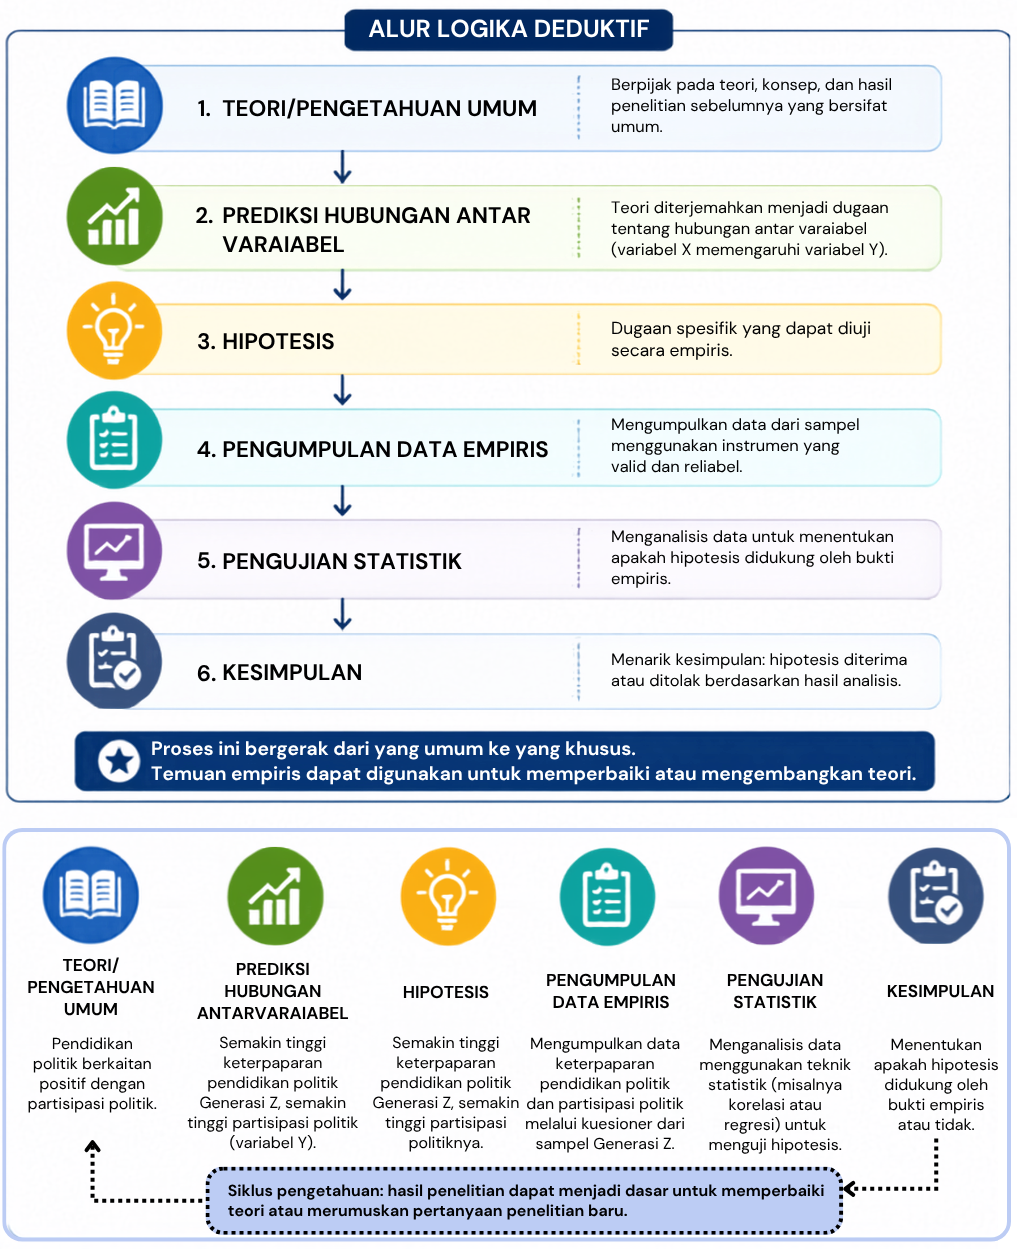
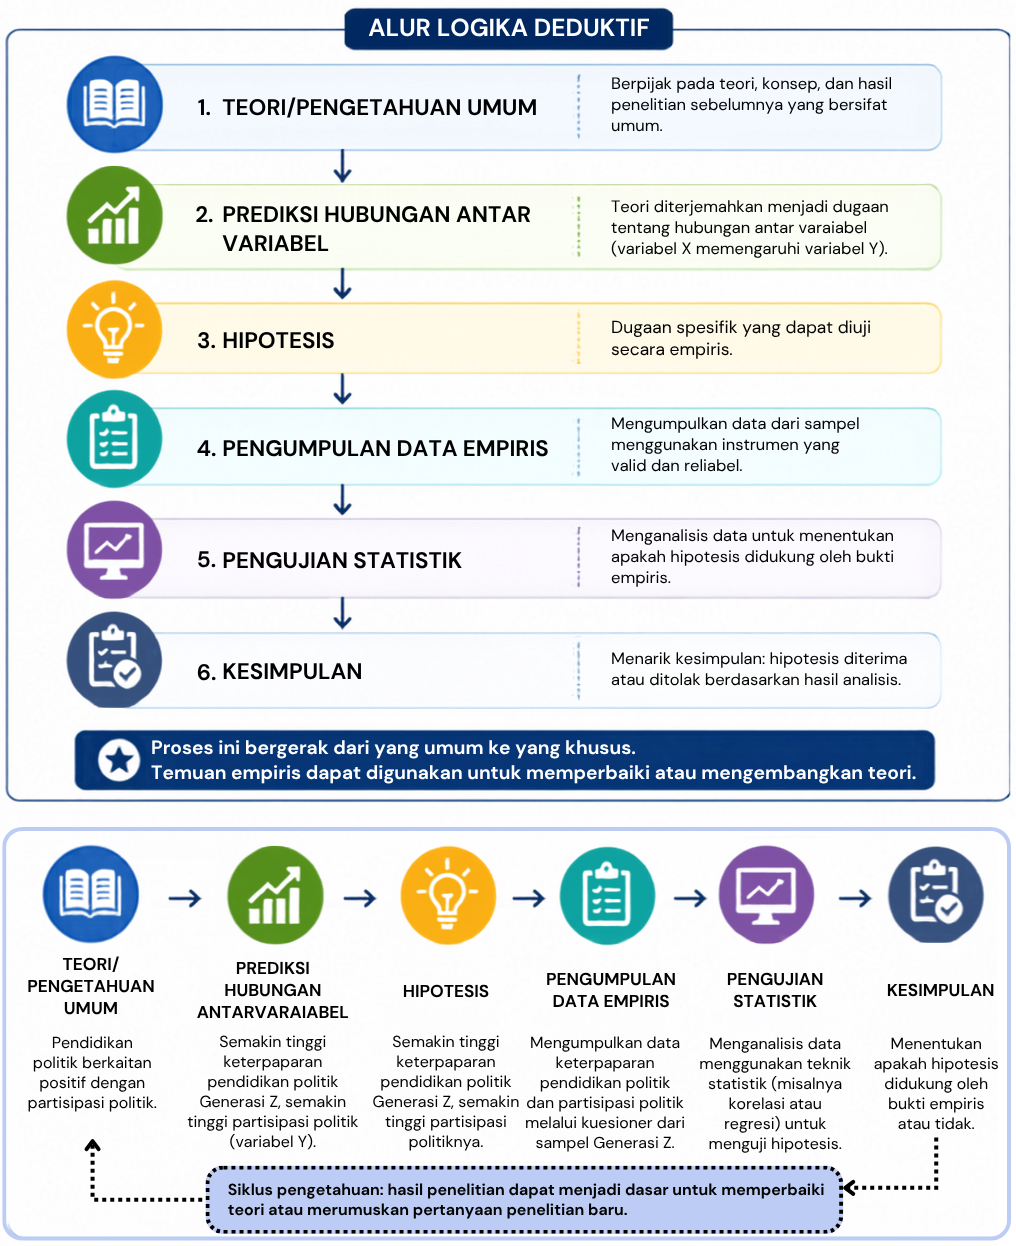
figure chap 9 revised

diff --git a/docs/3_11_prinsipkuanti.html b/docs/3_11_prinsipkuanti.html
@@ -8,7 +8,7 @@
 
 <meta name="author" content="Entin Nurhayati">
 
-<title>9&nbsp; Prinsip dan Logika Penelitian Kuantitatif – Metodologi Penelitian</title>
+<title>9&nbsp; Pengumpulan dan Analisis Data Kualitatif – Metodologi Penelitian</title>
 <style>
 code{white-space: pre-wrap;}
 span.smallcaps{font-variant: small-caps;}
@@ -338,7 +338,7 @@ div.csl-indent {
 
 <header id="title-block-header" class="quarto-title-block default"><nav class="quarto-page-breadcrumbs quarto-title-breadcrumbs d-none d-lg-block" aria-label="breadcrumb"><ol class="breadcrumb"><li class="breadcrumb-item"><a href="./3_pengantar.html">METODOLOGI PENELITIAN KUANTITATIF</a></li><li class="breadcrumb-item"><a href="./3_11_prinsipkuanti.html"><span class="chapter-number">9</span>&nbsp; <span class="chapter-title">Prinsip dan Logika Penelitian Kuantitatif</span></a></li></ol></nav>
 <div class="quarto-title">
-<h1 class="title"><span class="chapter-number">9</span>&nbsp; <span class="chapter-title">Prinsip dan Logika Penelitian Kuantitatif</span></h1>
+<h1 class="title"><span class="chapter-number">9</span>&nbsp; <span class="chapter-title">Pengumpulan dan Analisis Data Kualitatif</span></h1>
 </div>
 
 
@@ -390,7 +390,7 @@ Capaian Pembelajaran
 <section id="landasan-filosofis-dan-prinsip-penelitian-kuantitatif" class="level2">
 <h2 class="anchored" data-anchor-id="landasan-filosofis-dan-prinsip-penelitian-kuantitatif"><span class="header-section-number">9.2</span> Landasan Filosofis dan Prinsip Penelitian Kuantitatif</h2>
 <p>Penelitian kuantitatif tidak hanya ditandai oleh penggunaan angka atau analisis statistik, tetapi juga oleh cara pandang tertentu terhadap realitas dan bagaimana pengetahuan ilmiah diperoleh. Cara pandang tersebut berakar pada filsafat positivisme, yang meyakini bahwa fenomena alam maupun sosial memiliki keteraturan, dapat diamati secara empiris, diukur secara objektif, dan dijelaskan melalui metode ilmiah <span class="citation" data-cites="Leavy2017 Neuman2014">(<a href="#ref-Leavy2017" role="doc-biblioref">Leavy, 2017</a>; <a href="#ref-Neuman2014" role="doc-biblioref">Neuman, 2014</a>)</span>. Dengan demikian, tujuan penelitian kuantitatif bukan sekadar mendeskripsikan fenomena, tetapi juga menemukan pola, menguji hubungan antar variabel, serta menghasilkan temuan yang dapat diverifikasi oleh peneliti lain.</p>
-<p>Berangkat dari landasan filosofis tersebut, penelitian kuantitatif dikembangkan berdasarkan sejumlah prinsip yang menjadi pedoman dalam proses penelitian. <span class="citation" data-cites="Cohen2108">Cohen dkk. (<a href="#ref-Cohen2108" role="doc-biblioref">2018</a>)</span> mengemukakan empat prinsip utama yang mendasari penelitian kuantitatif, yaitu <em>determinism</em>, <em>empiricism</em>, <em>parsimony</em>, dan <em>generalization</em>. Keempat prinsip tersebut saling berkaitan dan memengaruhi cara peneliti merumuskan masalah, menyusun hipotesis, mengumpulkan data, hingga menarik kesimpulan. Secara ringkas, prinsip-prinsip dasar tersebut memiliki implikasi terhadap cara penelitian kuantitatif dirancang dan dilaksanakan, sebagaimana dirangkum pada <a href="#tbl-prinsipkuantitatif" class="quarto-xref">Tabel&nbsp;<span>9.1</span></a>.</p>
+<p>Berangkat dari landasan filosofis tersebut, penelitian kuantitatif dikembangkan berdasarkan sejumlah prinsip yang menjadi pedoman dalam proses penelitian. <span class="citation" data-cites="Cohen2108">Cohen dkk. (<a href="#ref-Cohen2108" role="doc-biblioref">2018</a>)</span> mengemukakan empat prinsip utama yang mendasari penelitian kuantitatif, yaitu <em>determinism</em>, <em>empiricism</em>, <em>parsimony</em>, dan <em>generalization</em>. Keempat prinsip tersebut saling berkaitan dan memengaruhi cara peneliti merumuskan masalah, menyusun hipotesis, mengumpulkan data, hingga menarik kesimpulan. Secara ringkas, prinsip-prinsip dasar tersebut memiliki implikasi terhadap cara penelitian kuantitatif dirancang dan dilaksanakan, sebagaimana dirangkum pada <span class="quarto-unresolved-ref">?tbl-prinsipkuantatitf</span>.</p>
 <section id="determinism" class="level3">
 <h3 class="anchored" data-anchor-id="determinism"><span class="header-section-number">9.2.1</span> <em>Determinism</em></h3>
 <p>Prinsip <em>determinism</em> menyatakan bahwa setiap fenomena memiliki penyebab dan tidak terjadi secara kebetulan. Dengan kata lain, suatu peristiwa dipengaruhi oleh kondisi atau faktor tertentu sehingga hubungan sebab-akibat tersebut dapat dipelajari dan dijelaskan melalui penelitian ilmiah <span class="citation" data-cites="Cohen2108">(<a href="#ref-Cohen2108" role="doc-biblioref">Cohen dkk., 2018</a>)</span>. Adanya keteraturan inilah yang memungkinkan ilmuwan menyusun teori, membuat prediksi, serta menjelaskan berbagai fenomena yang terjadi.</p>
@@ -424,24 +424,24 @@ Tabel&nbsp;9.1: Prinsip-prinsip Dasar Penelitian Kuantitatif
 </colgroup>
 <tbody>
 <tr class="odd">
-<td style="text-align: left;"><strong>Prinsip/Logika</strong></td>
-<td style="text-align: left;"><strong>Implikasi dalam Penelitian Kuantitatif</strong></td>
+<td><strong>Prinsip/Logika</strong></td>
+<td><strong>Implikasi dalam Penelitian Kuantitatif</strong></td>
 </tr>
 <tr class="even">
-<td style="text-align: left;"><em>Determinism</em></td>
-<td style="text-align: left;">Mengidentifikasi dan menguji hubungan antar variabel</td>
+<td><em>Determinism</em></td>
+<td>Mengidentifikasi dan menguji hubungan antar variabel</td>
 </tr>
 <tr class="odd">
-<td style="text-align: left;"><em>Empiricism</em></td>
-<td style="text-align: left;">Menerjemahkan konsep menjadi variabel yang dapat diamati dan diukur</td>
+<td><em>Empiricism</em></td>
+<td>Menerjemahkan konsep menjadi variabel yang dapat diamati dan diukur</td>
 </tr>
 <tr class="even">
-<td style="text-align: left;"><em>Parsimony</em></td>
-<td style="text-align: left;">Menyusun penjelasan atau model yang memadai tanpa kompleksitas yang tidak diperlukan</td>
+<td><em>Parsimony</em></td>
+<td>Menyusun penjelasan atau model yang memadai tanpa kompleksitas yang tidak diperlukan</td>
 </tr>
 <tr class="odd">
-<td style="text-align: left;"><em>Generalization</em></td>
-<td style="text-align: left;">Menggunakan sampel untuk menarik inferensi mengenai populasi</td>
+<td><em>Generalization</em></td>
+<td>Menggunakan sampel untuk menarik inferensi mengenai populasi</td>
 </tr>
 </tbody>
 </table>
